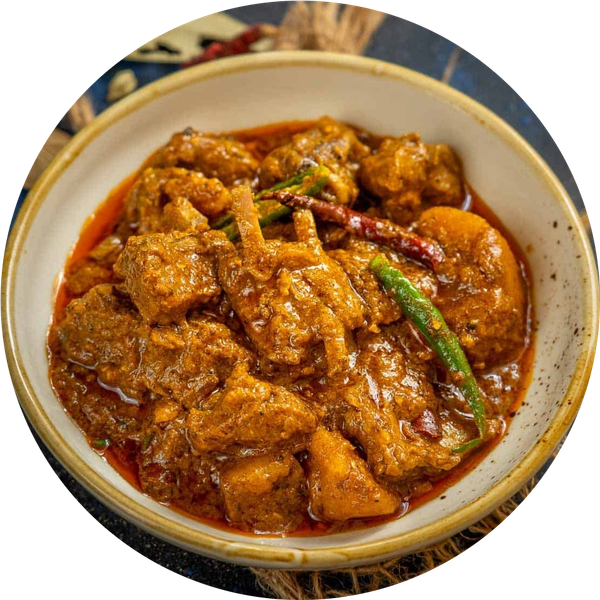
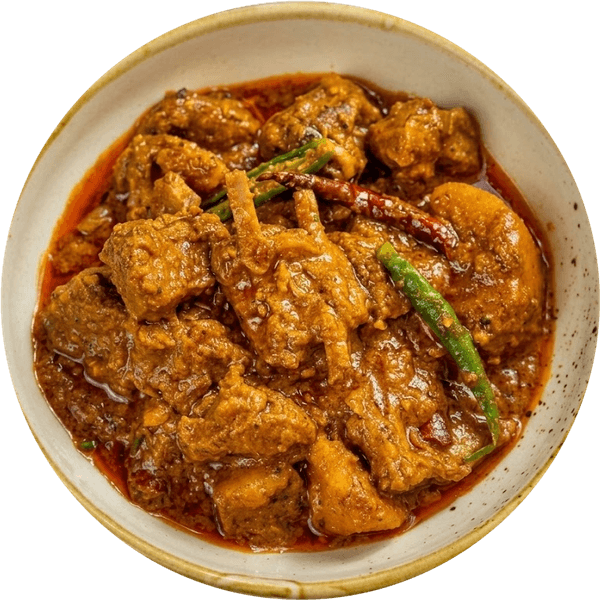
feat: add isolated circular plates for Kolkata Kosha Mangsho and Ambalapuzha Palada Pradhaman

diff --git a/src/data/feaztoData.ts b/src/data/feaztoData.ts
@@ -282,7 +282,7 @@ export const REGIONAL_FOODS: FoodItem[] = [
     prepTime: '40 min',
     calories: '360 kcal',
     protein: '9g protein',
-    image: '/brand/plate-thali-new.png'
+    image: '/brand/plate-palada-pradhaman.png'
   }
 ];
 
